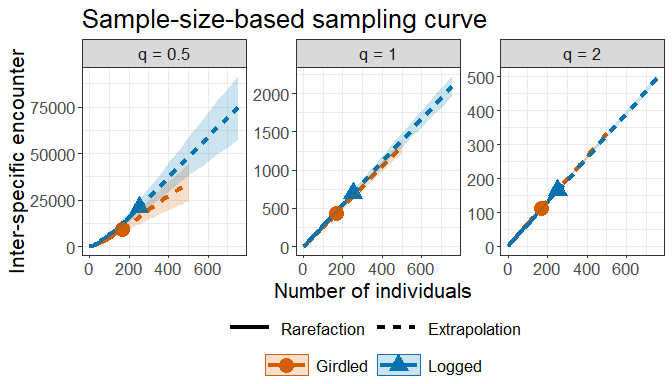
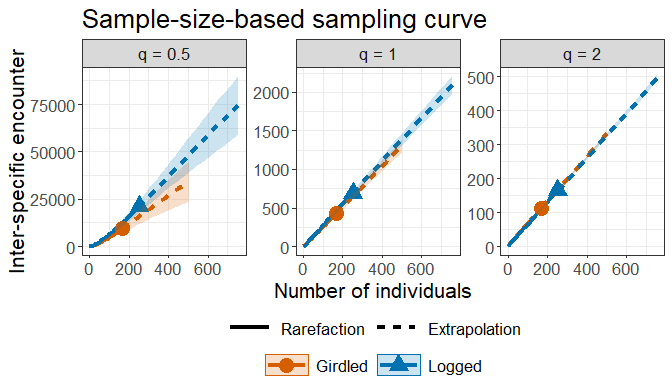
Update.

diff --git a/README.md b/README.md
@@ -3,7 +3,7 @@
 # iNEXT.IE (R package)
 
 <h5 align="right">
-Latest version: 2025-12-07
+Latest version: 2025-12-08
 </h5>
 <font color="394CAE">
 <h3 color="394CAE" style="font-weight: bold">
@@ -18,15 +18,7 @@ National Tsing Hua University, Hsin-Chu, Taiwan 30043</i>
 <br> `iNEXT.IE` (INterpolation and EXTrapolation for Inter-Specific
 Encounter) is a framework for biodiversity methodology. ‘iNEXT.IE’
 extends ‘iNEXT’ to incorporate inter-specific encounter (IE) of
-biodiversity, which incorporates species absolute abundance. An online
-version “iNEXT.IE Online”
-(<https://kaihsiang-hu.shinyapps.io/iNEXT_IE/>) is also available for
-users without prior experience in R.
-
-`iNEXT.IE` (INterpolation and EXTrapolation for Inter-Specific
-Encounter) is a framework for biodiversity methodology. ‘iNEXT.IE’
-extends ‘iNEXT’ to incorporate inter-specific encounter (IE) of
-biodiversity, which incorporates species absolute abundance. An online
+biodiversity, which incorporates absolute species abundance. An online
 version “iNEXT.IE Online”
 (<https://kaihsiang-hu.shinyapps.io/iNEXT_IE/>) is also available for
 users without prior experience in R.
@@ -40,10 +32,9 @@ asymptotic):
 `iNEXT.IE` computes the estimated diversity for standardized samples
 with a common sample size or sample completeness. This approach aims to
 compare diversity estimates for equally-large (with a common sample
-size) or equally-complete (with a common sample coverage) samples; it is
-based on the seamless rarefaction and extrapolation (R/E) sampling
-curves of diversity for q = 0.5, 1 and 2. `iNEXT.IE` offers three types
-of R/E sampling curves:
+size) or equally-complete (with a common sample coverage) samples using
+seamless rarefaction and extrapolation (R/E) sampling curves for q =
+0.5, 1, and 2. `iNEXT.IE` offers three types of R/E sampling curves:
 
 -   Sample-size-based (or size-based) R/E sampling curves: This type of
     sampling curve plots the diversity estimates with respect to sample
@@ -61,14 +52,13 @@ of R/E sampling curves:
 `iNEXT.IE` computes the estimated asymptotic diversity and also plots
 diversity profiles (q-profiles) for q between 0.4 and 2, in comparison
 with the maximum likelihood estimation. Typically, the asymptotic
-estimates for q ≥ 1 are reliable, but for q \< 1 (especially for q close
-to zero), the asymptotic estimates represent only lower bounds.
+estimates for q ≥ 1 are reliable, but for q \< 1 (especially when q is
+near zero), they represent lower bounds only..
 
 ## How to cite
 
-If you publish your work based on results from `iNEXT.IE` package, you
-should make references to the following methodology paper and the
-package:
+If you use results from the iNEXT.IE package in a publication, please
+cite the following methodology paper and the package:
 
 -   Hu, K.-H. and Chao, A. (2025). The iNEXT.IE package: INterpolation
     and EXTrapolation for Inter-Specific Encounter. R package available
@@ -360,24 +350,24 @@ than the reference sample size), the diversity estimate of order q
 and `qIE.UCL`) conditioning on the sample size, and the corresponding
 sample coverage estimate (`SC`) along with the lower and upper
 confidence limits of sample coverage (`SC.LCL` and `SC.UCL`). These
-sample coverage estimates with confidence intervals are used for
-plotting the sample completeness curve. If the argument `nboot` is
+sample coverage estimates and their confidence intervals are used to
+construct the sample completeness curve. If the argument `nboot` is
 greater than zero, then a bootstrap method is applied to obtain the
 confidence intervals for the diversity and sample coverage estimates.
-Otherwise, all confidence intervals will not be computed. Here only the
-first six rows of the `$size_based` output are displayed:
+Otherwise, all confidence intervals will not be computed. Only the first
+six rows of the `$size_based` output are displayed below.
 
 ``` r
 output_iNEXT$iNextEst$size_based
 ```
 
       Assemblage Order.q  m      Method      qIE  qIE.LCL  qIE.UCL    SC SC.LCL SC.UCL
-    1    Girdled     0.5  1 Rarefaction    0.000    0.000    0.000 0.124  0.103  0.144
-    2    Girdled     0.5  9 Rarefaction  117.346  105.676  129.016 0.578  0.537  0.619
-    3    Girdled     0.5 18 Rarefaction  400.897  351.712  450.081 0.736  0.697  0.776
-    4    Girdled     0.5 27 Rarefaction  756.481  651.142  861.820 0.808  0.771  0.845
-    5    Girdled     0.5 36 Rarefaction 1155.808  979.272 1332.344 0.846  0.812  0.881
-    6    Girdled     0.5 44 Rarefaction 1538.593 1287.728 1789.457 0.868  0.834  0.901
+    1    Girdled     0.5  1 Rarefaction    0.000    0.000    0.000 0.124  0.100  0.148
+    2    Girdled     0.5  9 Rarefaction  117.346  104.407  130.285 0.578  0.535  0.621
+    3    Girdled     0.5 18 Rarefaction  400.897  348.152  453.641 0.736  0.695  0.778
+    4    Girdled     0.5 27 Rarefaction  756.481  645.530  867.432 0.808  0.771  0.845
+    5    Girdled     0.5 36 Rarefaction 1155.808  972.798 1338.818 0.846  0.812  0.881
+    6    Girdled     0.5 44 Rarefaction 1538.593 1281.986 1795.199 0.868  0.836  0.900
 
 The second data frame (`$coverage_based`) includes the name of
 assemblage (`Assemblage`), the diversity order (`Order.q`), the target
@@ -386,8 +376,8 @@ sample coverage value (`SC`), the corresponding sample size (`m`), the
 whether the coverage `SC` is less than, equal to, or greater than the
 reference sample coverage), the diversity estimate of order q (`qIE`),
 the lower and upper confidence limits of diversity (`qIE.LCL` and
-`qIE.UCL`) conditioning on the target sample coverage value. Here only
-the first six rows of the `$coverage_based` output are displayed below:
+`qIE.UCL`) conditioning on the target sample coverage value. Only the
+first six rows of the `$coverage_based output` are displayed below.
 (Note for a fixed coverage value, the confidence interval in the
 `$coverage_based` table is wider than the corresponding interval in the
 `$size_based` table. This is because, for a given coverage value, the
@@ -401,11 +391,11 @@ output_iNEXT$iNextEst$coverage_based
 
       Assemblage Order.q    SC  m      Method      qIE qIE.LCL  qIE.UCL
     1    Girdled     0.5 0.124  1 Rarefaction    0.000   0.000    0.034
-    2    Girdled     0.5 0.578  9 Rarefaction  117.346  73.619  161.074
-    3    Girdled     0.5 0.736 18 Rarefaction  400.897 232.797  568.996
-    4    Girdled     0.5 0.808 27 Rarefaction  756.481 388.529 1124.433
-    5    Girdled     0.5 0.846 36 Rarefaction 1155.808 508.477 1803.139
-    6    Girdled     0.5 0.868 44 Rarefaction 1538.593 595.433 2481.753
+    2    Girdled     0.5 0.578  9 Rarefaction  117.346  69.718  164.974
+    3    Girdled     0.5 0.736 18 Rarefaction  400.897 223.681  578.113
+    4    Girdled     0.5 0.808 27 Rarefaction  756.481 387.101 1125.861
+    5    Girdled     0.5 0.846 36 Rarefaction 1155.808 525.622 1785.994
+    6    Girdled     0.5 0.868 44 Rarefaction 1538.593 618.810 2458.375
 
 The third list of the output (`$AsyEst`) includes the name of the
 Assemblage, diversity order (q = 0.5, 1, 2), the maximum likelihood
@@ -422,12 +412,12 @@ output_iNEXT$AsyEst
 ```
 
       Assemblage Order.q    IE_MLE    IE_asy     s.e.   qIE.LCL    qIE.UCL
-    1    Girdled     0.5 29157.412 38234.978 5121.237 28197.537  48272.419
-    2    Girdled     1.0  1407.199  1459.750   44.302  1372.919   1546.582
-    3    Girdled     2.0   369.865   370.407    2.583   365.343    375.470
-    4     Logged     0.5 65623.287 82938.079 8925.383 65444.651 100431.507
-    5     Logged     1.0  2260.176  2331.295   73.911  2186.432   2476.158
-    6     Logged     2.0   548.290   548.825    5.188   538.656    558.994
+    1    Girdled     0.5 29157.412 38234.978 5379.820 27690.724  48779.232
+    2    Girdled     1.0  1407.199  1459.750   49.738  1362.265   1557.236
+    3    Girdled     2.0   369.865   370.407    2.409   365.685    375.128
+    4     Logged     0.5 65623.287 82938.079 9065.532 65169.962 100706.195
+    5     Logged     1.0  2260.176  2331.295   81.155  2172.235   2490.355
+    6     Logged     2.0   548.290   548.825    5.409   538.224    559.426
 
 The `ggiNEXTIE` function can be used to make graphical displays for
 rarefaction and extrapolation sampling curves. An example for showing
@@ -545,18 +535,18 @@ output_est_cov
 ```
 
        Assemblage Order.q   SC       m        Method       qIE     s.e.  qIE.LCL   qIE.UCL
-    1     Girdled     0.5 0.94 138.409   Rarefaction  7307.102 2626.050 2160.139 12454.065
-    2     Girdled     0.5 0.96 215.651 Extrapolation 13041.560 5383.357 2490.374 23592.745
-    3     Girdled     1.0 0.94 138.409   Rarefaction   353.853   84.277  188.674   519.033
-    4     Girdled     1.0 0.96 215.651 Extrapolation   557.961  155.594  253.003   862.919
-    5     Girdled     2.0 0.94 138.409   Rarefaction    91.358   19.684   52.778   129.937
-    6     Girdled     2.0 0.96 215.651 Extrapolation   142.233   36.879   69.951   214.515
-    7      Logged     0.5 0.94 164.121   Rarefaction 12286.794 2575.230 7239.437 17334.151
-    8      Logged     0.5 0.96 244.422   Rarefaction 20305.097 5979.938 8584.634 32025.561
-    9      Logged     1.0 0.94 164.121   Rarefaction   446.173   60.638  327.324   565.021
-    10     Logged     1.0 0.96 244.422   Rarefaction   670.800  135.058  406.092   935.508
-    11     Logged     2.0 0.94 164.121   Rarefaction   107.012   13.251   81.040   132.984
-    12     Logged     2.0 0.96 244.422   Rarefaction   159.531   29.830  101.066   217.997
+    1     Girdled     0.5 0.94 138.409   Rarefaction  7307.102 2078.097 3234.107 11380.097
+    2     Girdled     0.5 0.96 215.651 Extrapolation 13041.560 3943.163 5313.102 20770.017
+    3     Girdled     1.0 0.94 138.409   Rarefaction   353.853   71.510  213.696   494.011
+    4     Girdled     1.0 0.96 215.651 Extrapolation   557.961  123.074  316.740   799.182
+    5     Girdled     2.0 0.94 138.409   Rarefaction    91.358   16.849   58.334   124.381
+    6     Girdled     2.0 0.96 215.651 Extrapolation   142.233   29.579   84.260   200.206
+    7      Logged     0.5 0.94 164.121   Rarefaction 12286.794 3755.476 4926.197 19647.392
+    8      Logged     0.5 0.96 244.422   Rarefaction 20305.097 7836.336 4946.161 35664.033
+    9      Logged     1.0 0.94 164.121   Rarefaction   446.173   85.988  277.639   614.706
+    10     Logged     1.0 0.96 244.422   Rarefaction   670.800  167.078  343.333   998.267
+    11     Logged     2.0 0.94 164.121   Rarefaction   107.012   18.714   70.333   143.691
+    12     Logged     2.0 0.96 244.422   Rarefaction   159.531   36.874   87.260   231.803
 
 ### Example: abundance data with two target sample sizes (150 and 250)
 
@@ -570,18 +560,18 @@ output_est_size
 ```
 
        Assemblage Order.q   m        Method    SC       qIE     s.e.   qIE.LCL   qIE.UCL
-    1     Girdled     0.5 150   Rarefaction 0.944  8129.064  801.405  6558.339  9699.789
-    2     Girdled     0.5 250 Extrapolation 0.966 15704.204 1903.852 11972.721 19435.686
-    3     Girdled     1.0 150   Rarefaction 0.944   384.433   11.149   362.580   406.285
-    4     Girdled     1.0 250 Extrapolation 0.966   648.699   19.589   610.305   687.093
-    5     Girdled     2.0 150   Rarefaction 0.944    99.035    0.646    97.769   100.302
-    6     Girdled     2.0 250 Extrapolation 0.966   164.994    1.077   162.883   167.104
-    7      Logged     0.5 150   Rarefaction 0.934 10944.269 1087.144  8813.506 13075.032
-    8      Logged     0.5 250   Rarefaction 0.961 20883.770 2232.695 16507.768 25259.772
-    9      Logged     1.0 150   Rarefaction 0.934   406.734   14.407   378.497   434.972
-    10     Logged     1.0 250   Rarefaction 0.961   686.424   24.682   638.049   734.800
-    11     Logged     2.0 150   Rarefaction 0.934    97.776    0.888    96.035    99.517
-    12     Logged     2.0 250   Rarefaction 0.961   163.179    1.482   160.274   166.084
+    1     Girdled     0.5 150   Rarefaction 0.944  8129.064 1079.497  6013.288 10244.840
+    2     Girdled     0.5 250 Extrapolation 0.966 15704.204 2306.331 11183.878 20224.529
+    3     Girdled     1.0 150   Rarefaction 0.944   384.433   15.635   353.788   415.077
+    4     Girdled     1.0 250 Extrapolation 0.966   648.699   27.017   595.747   701.651
+    5     Girdled     2.0 150   Rarefaction 0.944    99.035    0.799    97.470   100.601
+    6     Girdled     2.0 250 Extrapolation 0.966   164.994    1.330   162.386   167.601
+    7      Logged     0.5 150   Rarefaction 0.934 10944.269 1030.468  8924.589 12963.948
+    8      Logged     0.5 250   Rarefaction 0.961 20883.770 2185.764 16599.752 25167.788
+    9      Logged     1.0 150   Rarefaction 0.934   406.734   12.952   381.349   432.120
+    10     Logged     1.0 250   Rarefaction 0.961   686.424   22.235   642.844   730.005
+    11     Logged     2.0 150   Rarefaction 0.934    97.776    0.848    96.114    99.438
+    12     Logged     2.0 250   Rarefaction 0.961   163.179    1.415   160.406   165.952
 
 ## <span style="color:red;">FUNCTION MLEAsyIE: MAXIMUM LIKELIHOOD ESTIMATION AND ASYMPTOTIC DIVERSITY PROFILES</span>
 
@@ -627,17 +617,17 @@ output_MLEAsy <- MLEAsyIE(spider, rho = 0.3)
 output_MLEAsy
 ```
 
-       Assemblage Order.q        qIE      s.e.    qIE.LCL    qIE.UCL     Method
-    1     Girdled     0.4 216158.530 53215.369 111858.322 320458.737 Asymptotic
-    2     Girdled     0.6  12333.930  1518.755   9357.225  15310.635 Asymptotic
-    3     Girdled     0.8   3155.430   216.354   2731.384   3579.476 Asymptotic
-    4     Girdled     1.0   1459.750    60.747   1340.689   1578.812 Asymptotic
-    5     Girdled     1.2    899.267    24.562    851.125    947.408 Asymptotic
-    6     Girdled     1.4    647.285    12.359    623.062    671.509 Asymptotic
-    7     Girdled     1.6    510.684     7.122    496.725    524.643 Asymptotic
-    8     Girdled     1.8    426.829     4.467    418.075    435.583 Asymptotic
-    9     Girdled     2.0    370.407     2.953    364.619    376.194 Asymptotic
-    10     Logged     0.4 551765.980 92157.128 371141.328 732390.633 Asymptotic
+       Assemblage Order.q        qIE       s.e.    qIE.LCL    qIE.UCL     Method
+    1     Girdled     0.4 216158.530  44577.692 128787.859 303529.200 Asymptotic
+    2     Girdled     0.6  12333.930   1181.261  10018.701  14649.159 Asymptotic
+    3     Girdled     0.8   3155.430    157.828   2846.093   3464.767 Asymptotic
+    4     Girdled     1.0   1459.750     42.632   1376.193   1543.308 Asymptotic
+    5     Girdled     1.2    899.267     17.278    865.403    933.131 Asymptotic
+    6     Girdled     1.4    647.285      8.902    629.838    664.733 Asymptotic
+    7     Girdled     1.6    510.684      5.286    500.323    521.045 Asymptotic
+    8     Girdled     1.8    426.829      3.404    420.156    433.502 Asymptotic
+    9     Girdled     2.0    370.407      2.296    365.906    374.907 Asymptotic
+    10     Logged     0.4 551765.980 113709.472 328899.510 774632.450 Asymptotic
 
 The following commands plot the corresponding q-profiles, along with its
 confidence interval for q between 0 to 2 with log2 transformation to
